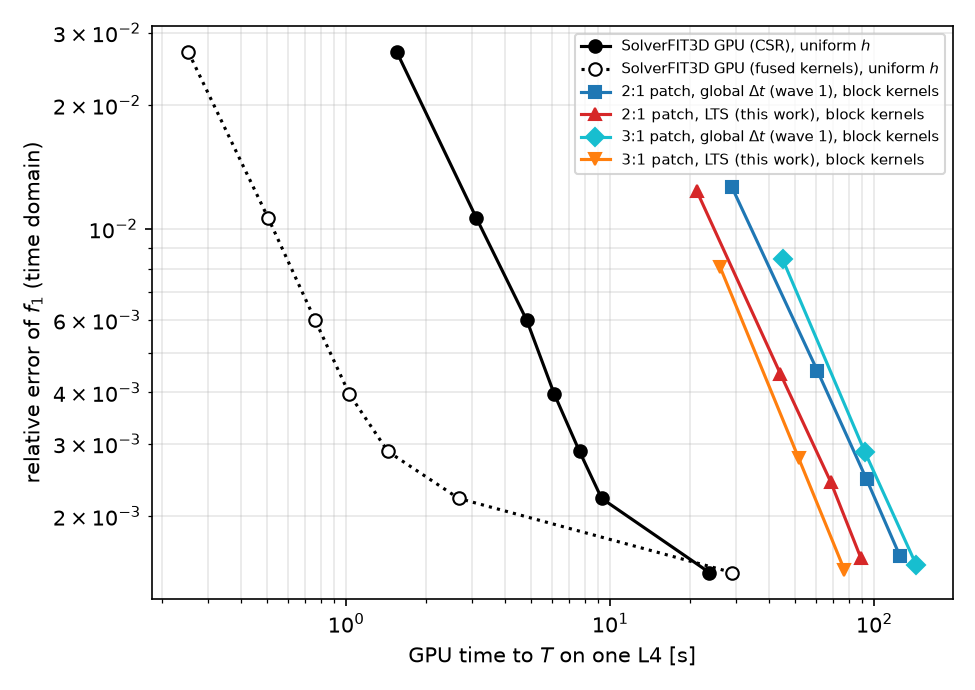
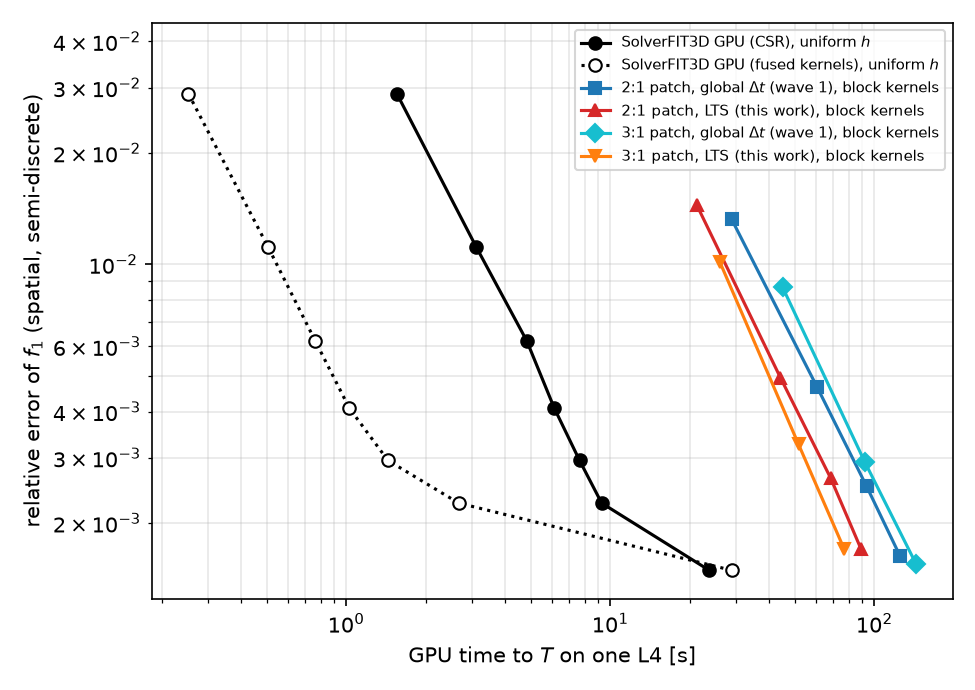
Fix wave-3 hybrid, subgrid LTS GPU, and curvilinear hexmesh figures and captions

diff --git a/studies/hybrid-cart-tet/plot_mixed_study.py b/studies/hybrid-cart-tet/plot_mixed_study.py
@@ -5,8 +5,9 @@
 
 """
 Plot the PEC-sphere equal-accuracy and cost-per-unknown-step study from
-`studies/hybrid-cart-tet/results_mixed_study.json` and
-`studies/hybrid-cart-tet/results_mixed_study_N20.json` (written by
+`studies/hybrid-cart-tet/results_mixed_study.json`,
+`studies/hybrid-cart-tet/results_mixed_study_N20.json`, and
+`studies/hybrid-cart-tet/results_mixed_study_N24.json` (written by
 `studies/hybrid-cart-tet/run_mixed_study.py` and merged by key `table`).
 
 Writes two PNGs under `studies/hybrid-cart-tet/figures/`:
@@ -35,7 +36,8 @@ HERE = os.path.dirname(os.path.abspath(__file__))
 FIG_DIR = os.path.join(HERE, "figures")
 DEFAULT_JSON = os.path.join(HERE, "results_mixed_study.json")
 DEFAULT_JSON_N20 = os.path.join(HERE, "results_mixed_study_N20.json")
-DEFAULT_JSONS = (DEFAULT_JSON, DEFAULT_JSON_N20)
+DEFAULT_JSON_N24 = os.path.join(HERE, "results_mixed_study_N24.json")
+DEFAULT_JSONS = (DEFAULT_JSON, DEFAULT_JSON_N20, DEFAULT_JSON_N24)
 
 plt.rcParams.update(
     {
@@ -53,37 +55,107 @@ VARIANT_STYLE = {
         "color": "C0",
         "marker": "o",
         "ls": "-",
+        "ms": 7.0,
+        "mfc": "white",
+        "mew": 1.8,
+        "zorder": 4,
     },
     "mixed": {
         "label": "hybrid, mixed mass",
         "color": "C1",
         "marker": "s",
         "ls": "--",
+        "ms": 6.0,
+        "mfc": "C1",
+        "mew": 1.2,
+        "zorder": 3,
     },
     "mixed_smoothed": {
         "label": "hybrid, mixed mass + smooth_patch",
         "color": "C2",
         "marker": "^",
         "ls": "-",
+        "ms": 6.2,
+        "mfc": "C2",
+        "mew": 1.2,
+        "zorder": 5,
     },
     "consistent_smoothed": {
         "label": "hybrid, consistent mass + smooth_patch",
         "color": "C4",
         "marker": "v",
         "ls": "-.",
+        "ms": 6.0,
+        "mfc": "C4",
+        "mew": 1.2,
+        "zorder": 3,
     },
     "staircase": {
         "label": "Cartesian staircase (HybridFIT3D)",
         "color": "0.25",
         "marker": "D",
         "ls": ":",
+        "ms": 5.5,
+        "mfc": "0.25",
+        "mew": 1.2,
+        "zorder": 3,
     },
     "tet": {
         "label": "all-tetrahedral physical region",
         "color": "C3",
         "marker": "P",
         "ls": "-.",
+        "ms": 6.8,
+        "mfc": "C3",
+        "mew": 1.2,
+        "zorder": 3,
     },
+}
+
+TTS_ANNOT_OFFSETS = {
+    ("consistent", 10): ((7, 4), "left", "bottom", False),
+    ("consistent", 16): ((8, 3), "left", "bottom", False),
+    ("consistent", 20): ((20, 2), "left", "bottom", True),
+    ("consistent", 24): ((-8, 6), "right", "bottom", False),
+    ("mixed", 10): ((-6, -9), "right", "top", False),
+    ("mixed", 16): ((-1, -16), "center", "top", True),
+    ("mixed", 20): ((1, 12), "center", "bottom", True),
+    ("mixed", 24): ((-8, -6), "right", "top", False),
+    ("mixed_smoothed", 10): ((7, -8), "left", "top", False),
+    ("mixed_smoothed", 16): ((-8, -4), "right", "center", False),
+    ("mixed_smoothed", 20): ((-3, 15), "center", "bottom", True),
+    ("mixed_smoothed", 24): ((-15, -12), "right", "top", True),
+    ("staircase", 10): ((-7, -9), "right", "top", False),
+    ("staircase", 16): ((7, 3), "left", "bottom", False),
+    ("staircase", 20): ((-8, -3), "right", "center", False),
+    ("staircase", 24): ((-7, 6), "right", "bottom", False),
+    ("tet", 10): ((7, 4), "left", "bottom", False),
+    ("tet", 16): ((8, -5), "left", "top", False),
+    ("tet", 20): ((5, 13), "left", "bottom", True),
+    ("tet", 24): ((8, -2), "left", "center", False),
+}
+
+COST_ANNOT_OFFSETS = {
+    ("consistent", 10): ((-7, 6), "right", "bottom"),
+    ("consistent", 16): ((7, 4), "left", "bottom"),
+    ("consistent", 20): ((7, 4), "left", "bottom"),
+    ("consistent", 24): ((8, -2), "left", "center"),
+    ("mixed", 10): ((-7, 1), "right", "center"),
+    ("mixed", 16): ((-7, 4), "right", "bottom"),
+    ("mixed", 20): ((-8, -8), "right", "top"),
+    ("mixed", 24): ((7, -9), "left", "top"),
+    ("mixed_smoothed", 10): ((7, -8), "left", "top"),
+    ("mixed_smoothed", 16): ((0, -12), "center", "top"),
+    ("mixed_smoothed", 20): ((-8, 5), "right", "bottom"),
+    ("mixed_smoothed", 24): ((7, 5), "left", "bottom"),
+    ("staircase", 10): ((-2, 7), "center", "bottom"),
+    ("staircase", 16): ((-2, 7), "center", "bottom"),
+    ("staircase", 20): ((-2, 7), "center", "bottom"),
+    ("staircase", 24): ((-2, 7), "center", "bottom"),
+    ("tet", 10): ((-7, 5), "right", "bottom"),
+    ("tet", 16): ((8, -2), "left", "center"),
+    ("tet", 20): ((-7, 6), "right", "bottom"),
+    ("tet", 24): ((-7, 5), "right", "bottom"),
 }
 
 
@@ -117,15 +189,15 @@ def merge_study_data(datasets, mutate=None):
 
 
 def load_merged_study(paths=None, mutate=None):
-    """Load and merge ``results_mixed_study.json`` and ``results_mixed_study_N20.json``."""
+    """Load and merge ``results_mixed_study*.json`` files."""
     if paths is None:
         paths = [p for p in DEFAULT_JSONS if os.path.exists(p)]
     elif isinstance(paths, str):
         paths = [paths]
-        if os.path.abspath(paths[0]) == os.path.abspath(
-            DEFAULT_JSON
-        ) and os.path.exists(DEFAULT_JSON_N20):
-            paths.append(DEFAULT_JSON_N20)
+        if os.path.abspath(paths[0]) == os.path.abspath(DEFAULT_JSON):
+            for extra in DEFAULT_JSONS[1:]:
+                if os.path.exists(extra):
+                    paths.append(extra)
     datasets = []
     for p in paths:
         with open(p) as f:
@@ -164,19 +236,43 @@ def plot_tts_vs_error(data, out_path):
             linestyle=st["ls"],
             color=st["color"],
             label=st["label"],
-            ms=6,
+            ms=st.get("ms", 6),
+            mfc=st.get("mfc", st["color"]),
+            mew=st.get("mew", 1.2),
             lw=1.6,
+            zorder=st.get("zorder", 3),
         )
         for r in rows:
+            n_val = int(r["N"])
+            xytext, ha, va, use_arrow = TTS_ANNOT_OFFSETS.get(
+                (v, n_val), ((5, 4), "left", "bottom", False)
+            )
+            arrowprops = (
+                {
+                    "arrowstyle": "-",
+                    "color": st["color"],
+                    "lw": 0.6,
+                    "alpha": 0.7,
+                    "shrinkA": 0,
+                    "shrinkB": 3,
+                }
+                if use_arrow
+                else None
+            )
             ax.annotate(
-                f"N={r['N']}",
+                f"N={n_val}",
                 (r["far_zone_error"], r["time_to_solution_s"]),
                 textcoords="offset points",
-                xytext=(5, 4),
-                fontsize=8,
+                xytext=xytext,
+                ha=ha,
+                va=va,
+                fontsize=7.5,
                 color=st["color"],
+                arrowprops=arrowprops,
+                zorder=6,
             )
 
+    ax.margins(x=0.14, y=0.12)
     ax.set_xlabel(
         "Far-zone relative $L_2$ error "
         "$\\|\\mathbf{e}_{\\mathrm{num}} - \\mathbf{e}_{\\mathrm{ref}}\\|_2"
@@ -190,7 +286,7 @@ def plot_tts_vs_error(data, out_path):
         "PEC sphere ($ka = 2$): one-period time to solution vs far-zone Mie error",
         fontsize=10,
     )
-    ax.legend(fontsize=8, loc="best")
+    ax.legend(fontsize=8, loc="lower left")
     fig.tight_layout()
     fig.savefig(out_path)
     plt.close(fig)
@@ -231,17 +327,27 @@ def plot_cost_per_unknown_step(data, out_path):
             linestyle=st["ls"],
             color=st["color"],
             label=st["label"],
-            ms=6,
+            ms=st.get("ms", 6),
+            mfc=st.get("mfc", st["color"]),
+            mew=st.get("mew", 1.2),
             lw=1.6,
+            zorder=st.get("zorder", 3),
         )
         for r in rows:
+            n_val = int(r["N"])
+            xytext, ha, va = COST_ANNOT_OFFSETS.get(
+                (v, n_val), ((5, 4), "left", "bottom")
+            )
             ax.annotate(
-                f"N={r['N']}",
+                f"N={n_val}",
                 (r["n_unknowns"], r["cost_per_unknown_step_s"]),
                 textcoords="offset points",
-                xytext=(5, 4),
-                fontsize=8,
+                xytext=xytext,
+                ha=ha,
+                va=va,
+                fontsize=7.5,
                 color=st["color"],
+                zorder=6,
             )
 
     cart_pts = []
@@ -287,11 +393,15 @@ def plot_cost_per_unknown_step(data, out_path):
                 f"N={N}",
                 (u, c),
                 textcoords="offset points",
-                xytext=(5, -10),
-                fontsize=8,
+                xytext=(3, -7),
+                ha="center",
+                va="top",
+                fontsize=7.5,
                 color="0.35",
+                zorder=6,
             )
 
+    ax.margins(x=0.12, y=0.14)
     ax.set_xlabel(
         "Number of unknowns $n_{\\mathrm{unknowns}} = n_{\\mathrm{free}} + n_{\\mathrm{faces}}$ [dimensionless]"
     )
@@ -300,7 +410,7 @@ def plot_cost_per_unknown_step(data, out_path):
         "PEC sphere time-domain benchmark (200 steps, 1 core): cost per unknown-step vs unknowns",
         fontsize=10,
     )
-    ax.legend(fontsize=8, loc="best")
+    ax.legend(fontsize=8, loc="lower right", bbox_to_anchor=(0.98, 0.17))
     fig.tight_layout()
     fig.savefig(out_path)
     plt.close(fig)
@@ -313,8 +423,9 @@ def main():
         nargs="*",
         default=None,
         help=(
-            "Paths to study JSON files (default: results_mixed_study.json and "
-            "results_mixed_study_N20.json merged by key 'table')."
+            "Paths to study JSON files (default: results_mixed_study.json, "
+            "results_mixed_study_N20.json, and results_mixed_study_N24.json "
+            "merged by key 'table')."
         ),
     )
     ap.add_argument(

diff --git a/studies/subgrid3d/plot_figures_lts.py b/studies/subgrid3d/plot_figures_lts.py
@@ -349,8 +349,9 @@ def plot_gpu(rows, path):
                   color=st["c"], label=st["label"] + ", block kernels")  # fmt: skip
     ax.set_xlabel("GPU time to $T$ on one L4 [s]")
     ax.set_ylabel("relative error of $f_1$ (spatial, semi-discrete)")
+    ax.set_ylim(1.25e-3, 4.5e-2)
     ax.grid(True, which="both", alpha=0.3)
-    ax.legend(fontsize=7)
+    ax.legend(fontsize=7, loc="upper right")
     fig.tight_layout()
     fig.savefig(path, dpi=150)
     plt.close(fig)
@@ -361,8 +362,7 @@ def main():
     summary = {}
     cases = []
     rowsD = None
-    for part, name in (("D", "large patch: $\\varepsilon_r=9$ cube, 0.3 m"),
-                       ("E", "small patch: $\\varepsilon_r=9$ cube, 0.1 m")):  # fmt: skip
+    for part, name in (("D", "large patch: $\\varepsilon_r=9$ cube, 0.3 m"),):
         res = load(part)
         if res is None:
             continue
@@ -387,8 +387,6 @@ def main():
         summary["gpu"] = g
         summary["gpu_vs_cpu"] = resG["gpu_vs_cpu"]
         plot_gpu(g, os.path.join(IMG, "subgrid3d_lts_gpu.png"))
-    with open(os.path.join(HERE, "summary_lts.json"), "w") as f:
-        json.dump(summary, f, indent=1)
     print(json.dumps(summary, indent=1)[:6000])
 
 

diff --git a/studies/curvilinear3d/figures_hexmesh.py b/studies/curvilinear3d/figures_hexmesh.py
@@ -399,7 +399,7 @@ def plot_convergence(json_path=None, out_path=None):
             ax.set_xlabel("Mesh spacing h [m]")
             ax.set_ylabel(ylabel)
             ax.set_title(title, fontsize=9.5)
-            figstyle.place_legend_below(ax, ncol=2, y_offset=-0.22)
+            figstyle.place_legend_below(ax, ncol=1, y_offset=-0.22)
 
         figstyle.save(fig, out_path, close=True, auto_legend_below=False)
 

diff --git a/docs/figures.md b/docs/figures.md
@@ -272,7 +272,7 @@ Generated by `studies/subgrid3d/plot_figures_lts.py` (`plot_cost` and `plot_gpu`
 
 ![GPU time to T on one L4](img/subgrid3d_lts_gpu.png)
 
-* **Figure (`img/subgrid3d_lts_gpu.png`)**: Relative error of $f_1$ (time domain, `err_td`) against GPU time to $T$ on one NVIDIA L4 [s] for the large-patch problem (`results_D.json`, Cloud Batch `sg3d-lts-cost-d`), comparing `SolverFIT3D` GPU with CSR (`t_solverfit3d`, $1.56$–$23.7$ s, solid black line with filled circles) and fused kernels (`t_solverfit3d_fused`, $0.253$–$29.0$ s, dotted black line with open circles) on uniform $h$ against `SubgridLTSFIT3D` CuPy block kernels (`t_subgrid_block`) for 2:1 global $\Delta t$ ($28.8$–$125$ s, blue squares), 2:1 LTS ($21.2$–$89.0$ s, red upward triangles), 3:1 global $\Delta t$ ($45.0$–$144$ s, cyan diamonds) and 3:1 LTS ($26.0$–$76.9$ s, orange downward triangles).
+* **Figure (`img/subgrid3d_lts_gpu.png`)**: Spatial (semi-discrete) relative error of the lowest resonance $f_1$ (`err_semi`) against GPU time to $T$ on one NVIDIA L4 [s] for the large-patch problem (`results_D.json`, Cloud Batch `sg3d-lts-cost-d`), comparing `SolverFIT3D` GPU with CSR (`t_solverfit3d`, $1.56$–$23.7$ s, solid black line with filled circles) and fused kernels (`t_solverfit3d_fused`, $0.253$–$29.0$ s, dotted black line with open circles) on uniform $h$ against `SubgridLTSFIT3D` CuPy block kernels (`t_subgrid_block`) for 2:1 global $\Delta t$ ($28.8$–$125$ s, blue squares), 2:1 LTS ($21.2$–$89.0$ s, red upward triangles), 3:1 global $\Delta t$ ($45.0$–$144$ s, cyan diamonds) and 3:1 LTS ($26.0$–$76.9$ s, orange downward triangles).
 
 Generated by `studies/unstructured-pml3d/pml3d_reflection.py plot` from `studies/unstructured-pml3d/reflection.json` and `stability.json` (Cloud Batch `pml3d-refl-v2`, n2-highmem-8; `pml3d-stab-v1`, n2-standard-4):
 
@@ -346,11 +346,11 @@ Generated by `studies/hybrid-cart-tet/plot_mixed_study.py`:
 
 ![Hybrid PEC sphere one-period time to solution vs far-zone error](../studies/hybrid-cart-tet/figures/fig_hybrid_mixed_tts_vs_error.png)
 
-* **Figure (`studies/hybrid-cart-tet/figures/fig_hybrid_mixed_tts_vs_error.png`)**: One-period time to solution `time_to_solution_s` [s] for one optical period $T_{\mathrm{phys}} = \lambda / c_0 = 3.336\times 10^{-9}\text{ s}$ at $ka = 2.0$ ($\lambda = 1.0\text{ m}$) against the frequency-domain far-zone relative $L_2$ scattered-field error `far_zone_error` [dimensionless] for $N \in \{10, 16, 20\}$ (`N = 24: not yet measured`): `consistent` (`far_zone_error`: $0.06598, 0.02361, 0.01428$; `time_to_solution_s`: $12.01, 115.4, 120.0\text{ s}$), `mixed` ($0.04365, 0.01425, 0.01076$; $9.247, 106.1, 130.6\text{ s}$), `mixed_smoothed` ($0.05313, 0.02166, 0.01528$; $8.892, 25.23, 130.6\text{ s}$), `staircase` ($0.48889, 0.29394, 0.23725$; $0.004669, 0.01229, 0.01943\text{ s}$), and `tet` ($0.05865, 0.02320, 0.01607$; $74.31, 70.89, 129.7\text{ s}$; equal-accuracy pair at $N = 16$ with `rel_error_diff` $= 0.01739$).
+* **Figure (`studies/hybrid-cart-tet/figures/fig_hybrid_mixed_tts_vs_error.png`)**: One-period time to solution `time_to_solution_s` [s] for one optical period $T_{\mathrm{phys}} = \lambda / c_0 = 3.336\times 10^{-9}\text{ s}$ at $ka = 2.0$ ($\lambda = 1.0\text{ m}$) against the frequency-domain far-zone relative $L_2$ scattered-field error `far_zone_error` [dimensionless] for $N \in \{10, 16, 20, 24\}$: `consistent` (`far_zone_error`: $0.06598, 0.02361, 0.01428, 0.0098075$; `time_to_solution_s`: $12.01, 115.4, 120.0, 138.1\text{ s}$), `mixed` ($0.04365, 0.01425, 0.01076, 0.0098512$; $9.247, 106.1, 130.6, 120.9\text{ s}$), `mixed_smoothed` ($0.05313, 0.02166, 0.01528, 0.01408$; $8.892, 25.23, 130.6, 119.9\text{ s}$), `staircase` ($0.48889, 0.29394, 0.23725, 0.20279$; $0.004669, 0.01229, 0.01943, 0.03800\text{ s}$), and `tet` ($0.05865, 0.02320, 0.01607, 0.01084$; $74.31, 70.89, 129.7, 560.3\text{ s}$). Equal-accuracy pairs occur at $N = 16$ (`consistent` vs `tet`, `rel_error_diff` $= 0.01739$) and at $N = 24$, where `mixed` and `consistent` have about equal far-zone error ($0.0098512$ vs $0.0098075$, `rel_error_diff` $= 0.004441$).
 
 ![Hybrid PEC sphere cost per unknown-step vs unknowns](../studies/hybrid-cart-tet/figures/fig_hybrid_mixed_cost_per_unknown_step.png)
 
-* **Figure (`studies/hybrid-cart-tet/figures/fig_hybrid_mixed_cost_per_unknown_step.png`)**: Log-log plot of one-core time-domain cost per unknown-step `cost_per_unknown_step_s` [s / (unknown $\cdot$ step)] (averaged over $200$ steps with `omp_num_threads` $= \text{"1"}$) against `n_unknowns` ($98\,455$, $196\,306$, $256\,113$ for the hybrid variants; $33\,456$, $60\,336$, $77\,340$ for `staircase`; $186\,125$, $337\,310$, $427\,357$ for `tet`) at $N \in \{10, 16, 20\}$ (`N = 24: not yet measured`): `consistent` ($1.162\times 10^{-6}$, $3.340\times 10^{-6}$, $1.867\times 10^{-6}\text{ s}$), `mixed` ($7.892\times 10^{-7}$, $1.790\times 10^{-6}$, $9.883\times 10^{-7}\text{ s}$), `mixed_smoothed` ($6.229\times 10^{-7}$, $4.119\times 10^{-7}$, $1.136\times 10^{-6}\text{ s}$), `staircase` ($7.344\times 10^{-9}$, $7.023\times 10^{-9}$, $6.791\times 10^{-9}\text{ s}$), and `tet` ($3.629\times 10^{-6}$, $1.078\times 10^{-6}$, $1.286\times 10^{-6}\text{ s}$), with the `SolverFIT3D` Cartesian reference line (`cart_cost_per_unknown_step_s`: $6.338\times 10^{-9}$, $6.572\times 10^{-9}$, $6.353\times 10^{-9}\text{ s}$ at `cart_n_unknowns` $= 34\,074$, $62\,502$, $81\,288$).
+* **Figure (`studies/hybrid-cart-tet/figures/fig_hybrid_mixed_cost_per_unknown_step.png`)**: Log-log plot of one-core time-domain cost per unknown-step `cost_per_unknown_step_s` [s / (unknown $\cdot$ step)] (averaged over $200$ steps with `omp_num_threads` $= \text{"1"}$) against `n_unknowns` ($98\,455, 196\,306, 256\,113, 441\,912$ for the hybrid variants; $33\,456, 60\,336, 77\,340, 122\,748$ for `staircase`; $186\,125, 337\,310, 427\,357, 683\,820$ for `tet`) at $N \in \{10, 16, 20, 24\}$: `consistent` ($1.162\times 10^{-6}, 3.340\times 10^{-6}, 1.867\times 10^{-6}, 1.104\times 10^{-6}\text{ s}$), `mixed` ($7.892\times 10^{-7}, 1.790\times 10^{-6}, 9.883\times 10^{-7}, 5.003\times 10^{-7}\text{ s}$), `mixed_smoothed` ($6.229\times 10^{-7}, 4.119\times 10^{-7}, 1.136\times 10^{-6}, 5.573\times 10^{-7}\text{ s}$), `staircase` ($7.344\times 10^{-9}, 7.023\times 10^{-9}, 6.791\times 10^{-9}, 7.036\times 10^{-9}\text{ s}$), and `tet` ($3.629\times 10^{-6}, 1.078\times 10^{-6}, 1.286\times 10^{-6}, 3.164\times 10^{-6}\text{ s}$), with the `SolverFIT3D` Cartesian reference line (`cart_cost_per_unknown_step_s`: $6.338\times 10^{-9}, 6.572\times 10^{-9}, 6.353\times 10^{-9}, 6.792\times 10^{-9}\text{ s}$ at `cart_n_unknowns` $= 34\,074, 62\,502, 81\,288, 129\,444$). At $N = 24$, `mixed` and `consistent` have about equal far-zone error ($0.0098512$ vs $0.0098075$, `rel_error_diff` $= 0.004441$) while `mixed` reduces `cost_per_unknown_step_s` from $1.104\times 10^{-6}\text{ s}$ to $5.003\times 10^{-7}\text{ s}$.
 
 ## Unstructured FIT on the GPU (`wakis.unstructured.gpu`)
 
@@ -470,12 +470,12 @@ Generated by `studies/curvilinear3d/figures_hexmesh.py` from `studies/curvilinea
 * **Figure (`studies/curvilinear3d/figures/hexmesh_convergence.png`)**:
   * **Script**: `studies/curvilinear3d/figures_hexmesh.py`
   * **Data file**: `studies/curvilinear3d/results/hexmesh_study.json` (generated by `studies/curvilinear3d/study_hexmesh.py`)
-  * **Caption**: Log-log convergence of relative cavity eigenfrequency error $|\omega_{\text{disc}} - \omega_{\text{ana}}|/\omega_{\text{ana}}$ vs mesh spacing $h$ [m] for `CurvilinearFIT3D` (`_pec_reconstruction='constrained'`, circles), `SolverFIT3D` staircase (`conformal=False`, squares), and `SolverFIT3D` conformal (`conformal='pec'`, triangles) at matching unknown counts, with $\mathcal{O}(h)$ and $\mathcal{O}(h^2)$ reference slope lines. (a) 5-block butterfly cylinder (`a = 1.0 m`, `L = 1.2 m`, `n = 4, 6, 8, 12`, `n_unknowns = 748, 2754, 6808, 23940`): `CurvilinearFIT3D` reaches `+1.1607e-03` on `TM010` (least-squares order `1.69`, two-level order `1.83`) and `-1.1708e-03` on `TE111` (least-squares order `2.15`, two-level order `2.11`), matching `SolverFIT3D conformal` (`-1.1647e-03` with LS order `2.09` and `-8.1589e-04` with LS order `2.07` at `N_cart = 22`), whereas `SolverFIT3D staircase` stalls at `-5.0587e-02` (LS order `0.35`) and `-3.3899e-02` (LS order `-0.92`). (b) 7-block cubed-sphere ball (`a = 1.0 m`, `n = 6, 8, 12, 16`, `n_unknowns = 4350, 10408, 35484, 84560`): `CurvilinearFIT3D` converges monotonically to `+2.7221e-03` on `TE_l1` (LS order `1.89`, two-level order `1.95`) and `+5.1375e-03` on `TM_l1` (LS order `1.95`, two-level order `1.97`), while `SolverFIT3D conformal` reaches `-9.7500e-04` (LS order `1.32`, two-level `-0.64`) and `-1.1495e-03` (LS order `3.01`, two-level `-6.89` at `N_cart = 37`) and `SolverFIT3D staircase` gives `-6.4904e-02` (LS order `0.57`) and `-5.5586e-02` (LS order `-2.31`).
+  * **Caption**: Log-log convergence of relative cavity eigenfrequency error $|\omega_{\text{disc}} - \omega_{\text{ana}}|/\omega_{\text{ana}}$ vs mesh spacing $h$ [m] for `CurvilinearFIT3D` (`CurvFIT`, `_pec_reconstruction='constrained'`, blue), `SolverFIT3D` conformal (`Conf.`, `conformal='pec'`, green), and `SolverFIT3D` staircase (`Stair.`, `conformal=False`, vermilion) at matching unknown counts, with solid lines and filled circles for the first mode in each panel (`TM010`, `TE_l1`), dashed lines and open squares for the second mode (`TE111`, `TM_l1`), and dotted $\mathcal{O}(h)$ and dash-dotted $\mathcal{O}(h^2)$ reference slope lines. (a) 5-block butterfly cylinder (`a = 1.0 m`, `L = 1.2 m`, `n = 4, 6, 8, 12`, `n_unknowns = 748, 2754, 6808, 23940`): `CurvilinearFIT3D` reaches `+1.1607e-03` on `TM010` (least-squares order `1.69`, two-level order `1.83`) and `-1.1708e-03` on `TE111` (least-squares order `2.15`, two-level order `2.11`), matching `SolverFIT3D conformal` (`-1.1647e-03` with LS order `2.09` and `-8.1589e-04` with LS order `2.07` at `N_cart = 22`), whereas `SolverFIT3D staircase` stalls at `-5.0587e-02` (LS order `0.35`) and `-3.3899e-02` (LS order `-0.92`). (b) 7-block cubed-sphere ball (`a = 1.0 m`, `n = 6, 8, 12, 16`, `n_unknowns = 4350, 10408, 35484, 84560`): `CurvilinearFIT3D` converges monotonically to `+2.7221e-03` on `TE_l1` (LS order `1.89`, two-level order `1.95`) and `+5.1375e-03` on `TM_l1` (LS order `1.95`, two-level order `1.97`), while `SolverFIT3D conformal` reaches `-9.7500e-04` (LS order `1.32`, two-level `-0.64`) and `-1.1495e-03` (LS order `3.01`, two-level `-6.89` at `N_cart = 37`) and `SolverFIT3D staircase` gives `-6.4904e-02` (LS order `0.57`) and `-5.5586e-02` (LS order `-2.31`).
 
 ![Multi-block hexahedral mesh projections](../studies/curvilinear3d/figures/hexmesh_meshes.png)
 
 * **Figure (`studies/curvilinear3d/figures/hexmesh_meshes.png`)**:
   * **Script**: `studies/curvilinear3d/figures_hexmesh.py`
   * **Data file**: `studies/curvilinear3d/results/hexmesh_study.json` (mesh generators `butterfly_disk_nodes` and `cubed_sphere_ball_nodes` in `wakis/curvilinear/mappings3d.py`)
-  * **Caption**: 2D wireframe projections of the multi-block conforming hexahedral meshes with outer PEC boundaries, block seams, sharp octant nodes (`sharp_nodes`, where $\mathbf{D}_c = \mathbf{0}$), and $0.5\;\text{m}$ scale bars. (a) Transverse $(x, y)$ cross-section and (b) axial $(x, z)$ cut of the 5-block butterfly cylinder `butterfly_disk_nodes(n=6, a=1.0, length=1.2)` (`1080` hexes, `2754` unknown edges, minimum scaled corner Jacobian `0.707107`, `96` sharp octants on the circular rims $r = a, z \in \{0, 1.2\}\;\text{m}$). (c) Equatorial $(x, y)$ slice and (d) boundary $(x, z)$ projection of the 7-block equidistant gnomonic cubed-sphere `cubed_sphere_ball_nodes(n=6, a=1.0)` (`1512` hexes, `4350` unknown edges, minimum scaled corner Jacobian `0.577350`, `24` sharp octants at the 8 outer cube corners on $r = a$).
+  * **Caption**: Two $(x, y)$ wireframe cross-sections of the multi-block conforming hexahedral meshes with outer PEC walls, sharp octant nodes (`effective_sharp_nodes`, where $\mathbf{D}_c = \mathbf{0}$, plotted as orange diamonds), and $0.5\;\text{m}$ scale bars. (a) Transverse $(x, y)$ cross-section at $z = 0$ of the 5-block butterfly cylinder `butterfly_disk_nodes(4, a=1.0, length=1.2)` ($n = 4$, $a = 1.0\;\text{m}$, $L = 1.2\;\text{m}$, `748` unknown edges, `32` sharp octant nodes total on the circular rims $r = a, z \in \{0, 1.2\}\;\text{m}$, with the `16` rim nodes at $z = 0$ shown). (b) Equatorial $(x, y)$ hexahedral slice at $z = 0$ (superimposed on the faint $(x, y)$ projection of all outer boundary shell edges) of the 7-block equidistant gnomonic cubed-sphere ball `cubed_sphere_ball_nodes(6, a=1.0)` ($n = 6$, $a = 1.0\;\text{m}$, `4350` unknown edges, `8` sharp octant cube-corner nodes corresponding to `24` sharp octants on $r = a$).
 
